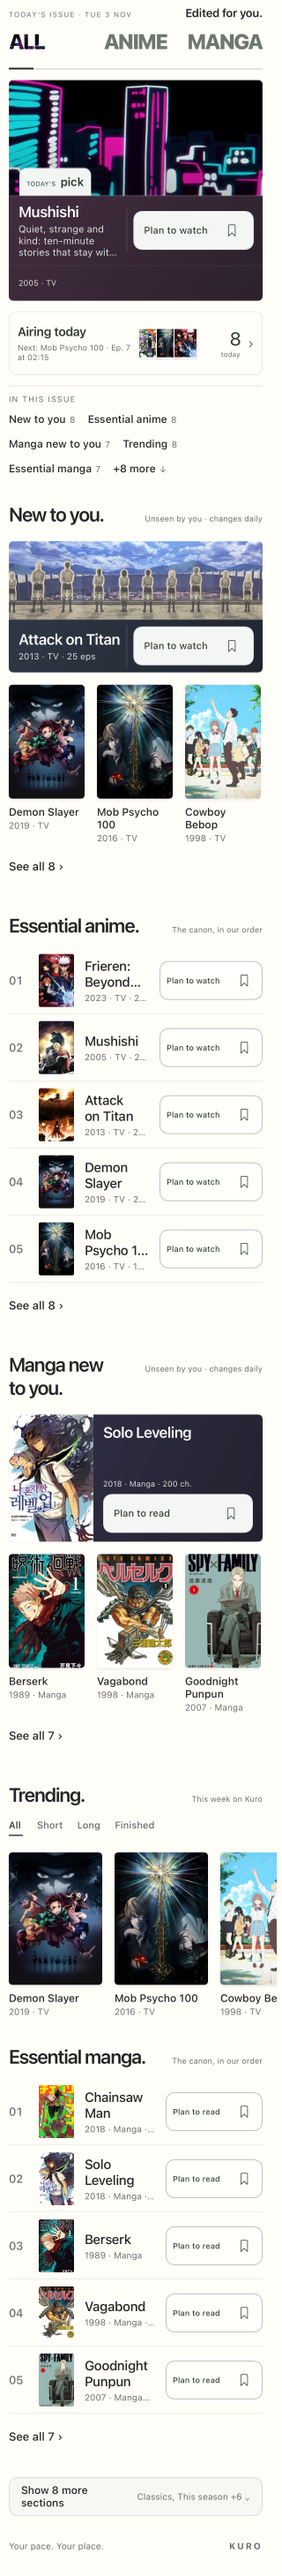
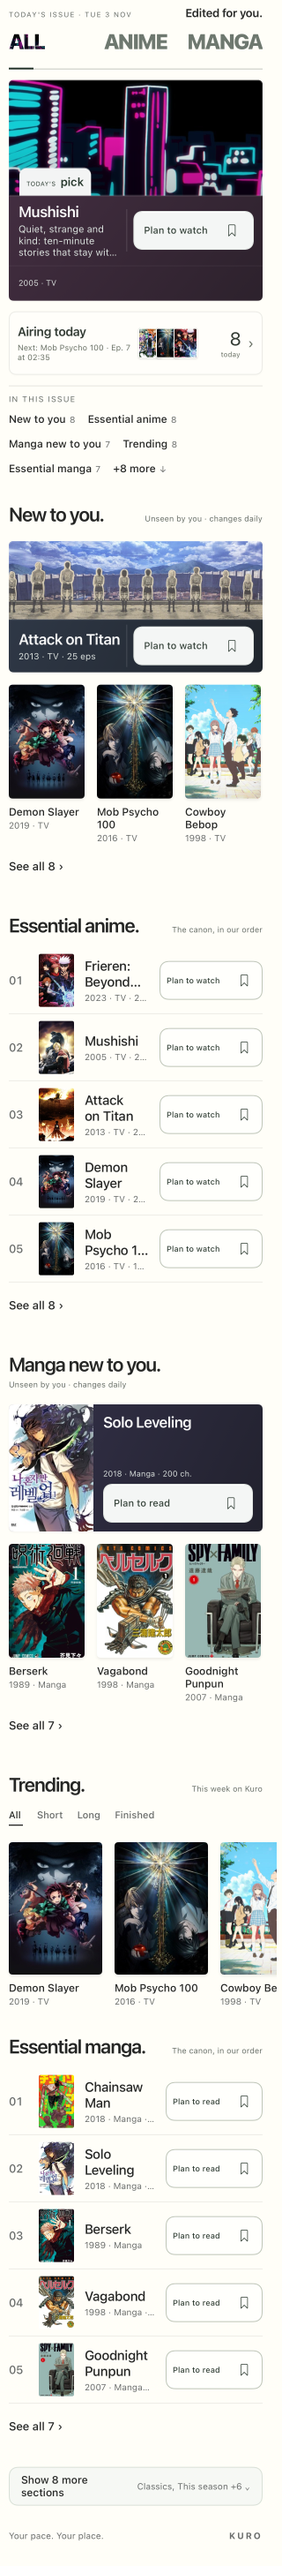
Discover: headings stack when the summary does not fit; tracked and taller renders
DiscoverPageHeading keeps a long title on one line and moves the summary
under it (ViewThatFits) instead of wrapping the title beside the summary.
The after harness adds a tracked render (Planned and On your list keys, the
trio's On your list mark; EN and DE) and a taller fold-open window so the
render reaches the footer. All after renders regenerated (EN and DE).

Claude-Session: https://claude.ai/code/session_01EXnQobKNDuiWFN5zm6WcdH

diff --git a/Kuro/Views/Discover/DiscoverPageHeading.swift b/Kuro/Views/Discover/DiscoverPageHeading.swift
@@ -3,10 +3,10 @@ import SwiftUI
 // MARK: - Page section heading (Discover + Clubs redesign §4, §12.3; Home grammar G§4)
 // Home's "Coming up." heading as a Discover-local view: the title in SF 24 (22 compact) semibold,
 // tracking −0.85, ink, a VoiceOver header; the summary on the right in SF 10 (9 compact)
-// `HomeInk.calendarSummary` #656C66, on the first baseline, 9 pt apart. At accessibility sizes the
-// summary stacks under the title. The Clubs lane builds `ClubPageHeading` with the same values; the
-// integrator may fold both into one shared view (§12.3). Values copied from
-// `HomeCalendarCard.swift:78-113`.
+// `HomeInk.calendarSummary` #656C66, on the first baseline, 9 pt apart. When the two do not fit on
+// one line (a long title, German, accessibility sizes) the summary stacks under the title. The
+// Clubs lane builds `ClubPageHeading` with the same values; the integrator may fold both into one
+// shared view (§12.3). Values copied from `HomeCalendarCard.swift:78-113`.
 
 struct DiscoverPageHeading: View {
     let title: String
@@ -16,27 +16,50 @@ struct DiscoverPageHeading: View {
     @Environment(\.dynamicTypeSize) private var dynamicTypeSize
 
     var body: some View {
-        let layout = dynamicTypeSize.isAccessibilitySize
-            ? AnyLayout(VStackLayout(alignment: .leading, spacing: 4))
-            : AnyLayout(HStackLayout(alignment: .firstTextBaseline, spacing: 9))
-        layout {
-            Text(title)
-                .font(.kuroCustom(compact ? 22 : 24, weight: .semibold, relativeTo: .title2, maxSize: 40))
-                .tracking(-0.85)
-                .foregroundStyle(Color.kuroInk)
-                .multilineTextAlignment(.leading)
-                .fixedSize(horizontal: false, vertical: true)
-                .accessibilityAddTraits(.isHeader)
-            if let summary, !summary.isEmpty {
-                if !dynamicTypeSize.isAccessibilitySize { Spacer(minLength: 0) }
-                Text(summary)
-                    .font(.kuroCustom(compact ? 9 : 10, relativeTo: .caption2, maxSize: 20))
-                    .foregroundStyle(HomeInk.calendarSummary)
-                    .multilineTextAlignment(dynamicTypeSize.isAccessibilitySize ? .leading : .trailing)
-                    .fixedSize(horizontal: false, vertical: true)
+        if dynamicTypeSize.isAccessibilitySize {
+            stacked
+        } else {
+            // A long title ("Manga new to you.", "Because you loved Frieren.") keeps its one line and
+            // the summary steps under it, instead of the title wrapping beside the summary.
+            ViewThatFits(in: .horizontal) {
+                HStack(alignment: .firstTextBaseline, spacing: 9) {
+                    titleText.fixedSize(horizontal: true, vertical: false)
+                    if let summary, !summary.isEmpty {
+                        Spacer(minLength: 0)
+                        summaryText(summary, alignment: .trailing)
+                            .fixedSize(horizontal: true, vertical: false)
+                    }
+                }
+                .frame(maxWidth: .infinity, alignment: .leading)
+                stacked
             }
         }
+    }
+
+    private var stacked: some View {
+        VStack(alignment: .leading, spacing: 4) {
+            titleText
+            if let summary, !summary.isEmpty { summaryText(summary, alignment: .leading) }
+        }
         .frame(maxWidth: .infinity, alignment: .leading)
+    }
+
+    private var titleText: some View {
+        Text(title)
+            .font(.kuroCustom(compact ? 22 : 24, weight: .semibold, relativeTo: .title2, maxSize: 40))
+            .tracking(-0.85)
+            .foregroundStyle(Color.kuroInk)
+            .multilineTextAlignment(.leading)
+            .fixedSize(horizontal: false, vertical: true)
+            .accessibilityAddTraits(.isHeader)
+    }
+
+    private func summaryText(_ summary: String, alignment: TextAlignment) -> some View {
+        Text(summary)
+            .font(.kuroCustom(compact ? 9 : 10, relativeTo: .caption2, maxSize: 20))
+            .foregroundStyle(HomeInk.calendarSummary)
+            .multilineTextAlignment(alignment)
+            .fixedSize(horizontal: false, vertical: true)
     }
 }
 

diff --git a/KuroTests/DiscoverAfterSnapshotTests.swift b/KuroTests/DiscoverAfterSnapshotTests.swift
@@ -79,7 +79,7 @@ struct DiscoverAfterSnapshotTests {
         let folds = KuroFoldMemory()
         folds.setExpanded(true, page: DiscoverIssueCopy.foldPage, section: DiscoverIssueCopy.foldSection)
         let fold = Self.window(AnyView(Self.page(.all, graph: graph, monitor: monitor).environment(\.kuroFoldMemory, folds)),
-                               width: 390, height: 7_000)
+                               width: 390, height: 9_500)
         try? await Task.sleep(for: .milliseconds(2_600))
         let foldHeight = Self.contentHeight(in: fold)
         Self.measure("discover-all-fold-open-full-390", foldHeight)
@@ -124,6 +124,25 @@ struct DiscoverAfterSnapshotTests {
         await capture(tall, name: "discover-all-realm-full-390", height: height)
         Self.close(tall)
         await realm.tearDown()
+    }
+
+    @Test("Discover: tracked titles (Planned key face, On your list key and mark) at 390")
+    func tracked() async throws {
+        await Self.seedArtwork()
+        let backend = FakeLibraryBackend()
+        backend.setRows([
+            FakeLibraryBackend.entry(.anime, 402, rowId: 402, status: .planning, progress: 0, verdict: nil),
+            FakeLibraryBackend.entry(.anime, 403, rowId: 403, status: .current, progress: 7, verdict: nil),
+            FakeLibraryBackend.entry(.anime, 405, rowId: 405, status: .planning, progress: 0, verdict: nil)
+        ], for: LifecycleFixtures.userA)
+        let harness = try DCDiscoverHarness(responder: Self.responder(), libraryBackend: backend)
+        await harness.signIn()
+        try? await harness.graph.library.refresh()
+        let window = Self.window(Self.page(.all, graph: harness.graph, monitor: NetworkMonitor()), width: 390, height: 2_000)
+        try? await Task.sleep(for: .milliseconds(2_400))
+        await capture(window, name: "discover-all-tracked-390")
+        Self.close(window)
+        await harness.tearDown()
     }
 
     // MARK: States
@@ -484,7 +503,8 @@ struct DCDiscoverHarness {
     private let suiteName: String
     private let defaults: UserDefaults
 
-    init(responder: @escaping StubServer.Responder, launchArguments: [String] = []) throws {
+    init(responder: @escaping StubServer.Responder, launchArguments: [String] = [],
+         libraryBackend: (any LibraryBackend)? = nil) throws {
         server = StubServer()
         server.respond(with: responder)
         suiteName = "kuro.tests.dc-discover.\(UUID().uuidString)"
@@ -493,6 +513,7 @@ struct DCDiscoverHarness {
             testingUserDefaults: defaults,
             notificationCenter: FakeNotificationCenter(),
             client: StubSupabase.makeClient(server: server),
+            libraryBackend: libraryBackend,
             flags: FeatureFlags(userDefaults: defaults, launchArguments: launchArguments)
         )
     }
